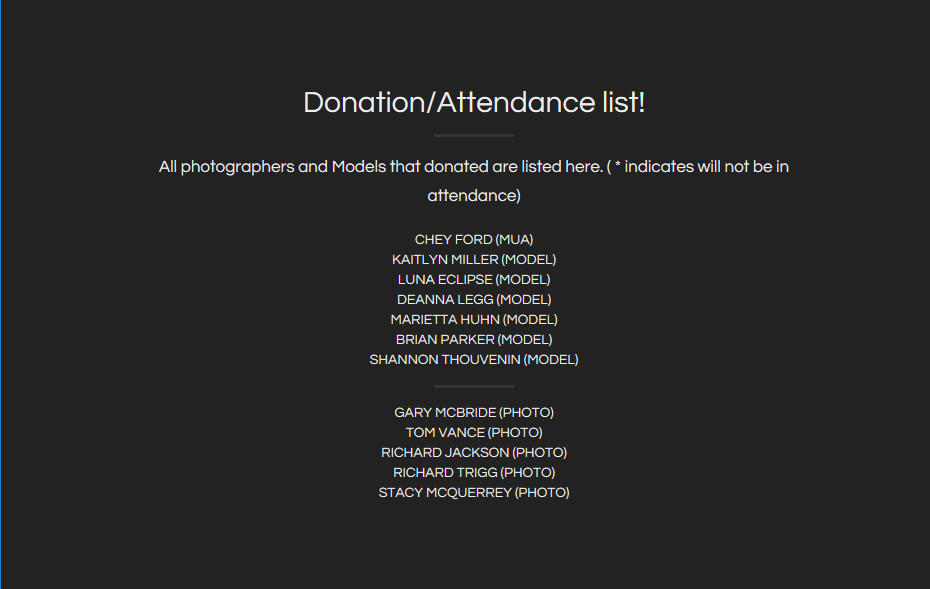
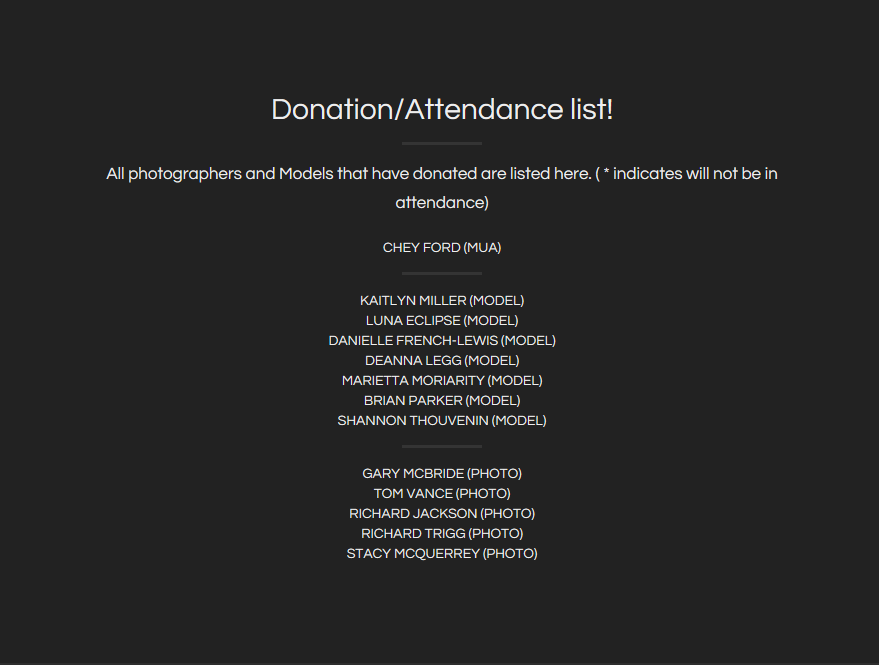
donation changes

Changed region(s): [[0.1229, 0.2445, 0.8908, 0.6418], [0.3993, 0.6723, 0.6143, 0.8557], [0.3072, 0.1528, 0.7065, 0.2139]]

diff --git a/index.html b/index.html
@@ -300,10 +300,10 @@
                     <hr class="primary">
                     <p>All photographers and Models that have donated are listed here. ( * indicates will not be in attendance) <br> </p>
                 </div>
-                <div class="col-lg-4 col-lg-offset-1 text-center">CHEY FORD (MUA) <hr class= "visible-xs visible-sm visible-md">KAITLYN MILLER (MODEL) <br> LUNA ECLIPSE (MODEL) <br> DANIELLE FRENCH-LEWIS <br> DEANNA LEGG (MODEL) <br> MARIETTA MORIARITY (MODEL) <br> BRIAN PARKER (MODEL) <br>
+                <div class="col-lg-4 col-lg-offset-1 text-center">CHEY FORD (MUA) <hr class= "visible-xs visible-sm visible-md">KAITLYN MILLER (MODEL) <br> LUNA ECLIPSE (MODEL) <br> DEANNA LEGG (MODEL) <br> MARIETTA MORIARITY (MODEL) <br> BRIAN PARKER (MODEL) <br>
                 SHANNON THOUVENIN (MODEL) <br>
                 </div><hr class= "visible-xs visible-sm visible-md">
-                <div class="col-lg-4 col-lg-offset-1 text-center">GARY MCBRIDE (PHOTO) <br> TOM VANCE (PHOTO) <br> RICHARD JACKSON (PHOTO) <br> RICHARD TRIGG (PHOTO)<br>
+                <div class="col-lg-4 col-lg-offset-1 text-center"> DANIELLE FRENCH-LEWIS (PHOTO) <br> GARY MCBRIDE (PHOTO) <br> TOM VANCE (PHOTO) <br> RICHARD JACKSON (PHOTO) <br> RICHARD TRIGG (PHOTO)<br>
                 STACY MCQUERREY (PHOTO)
                 </div>
             </div>
